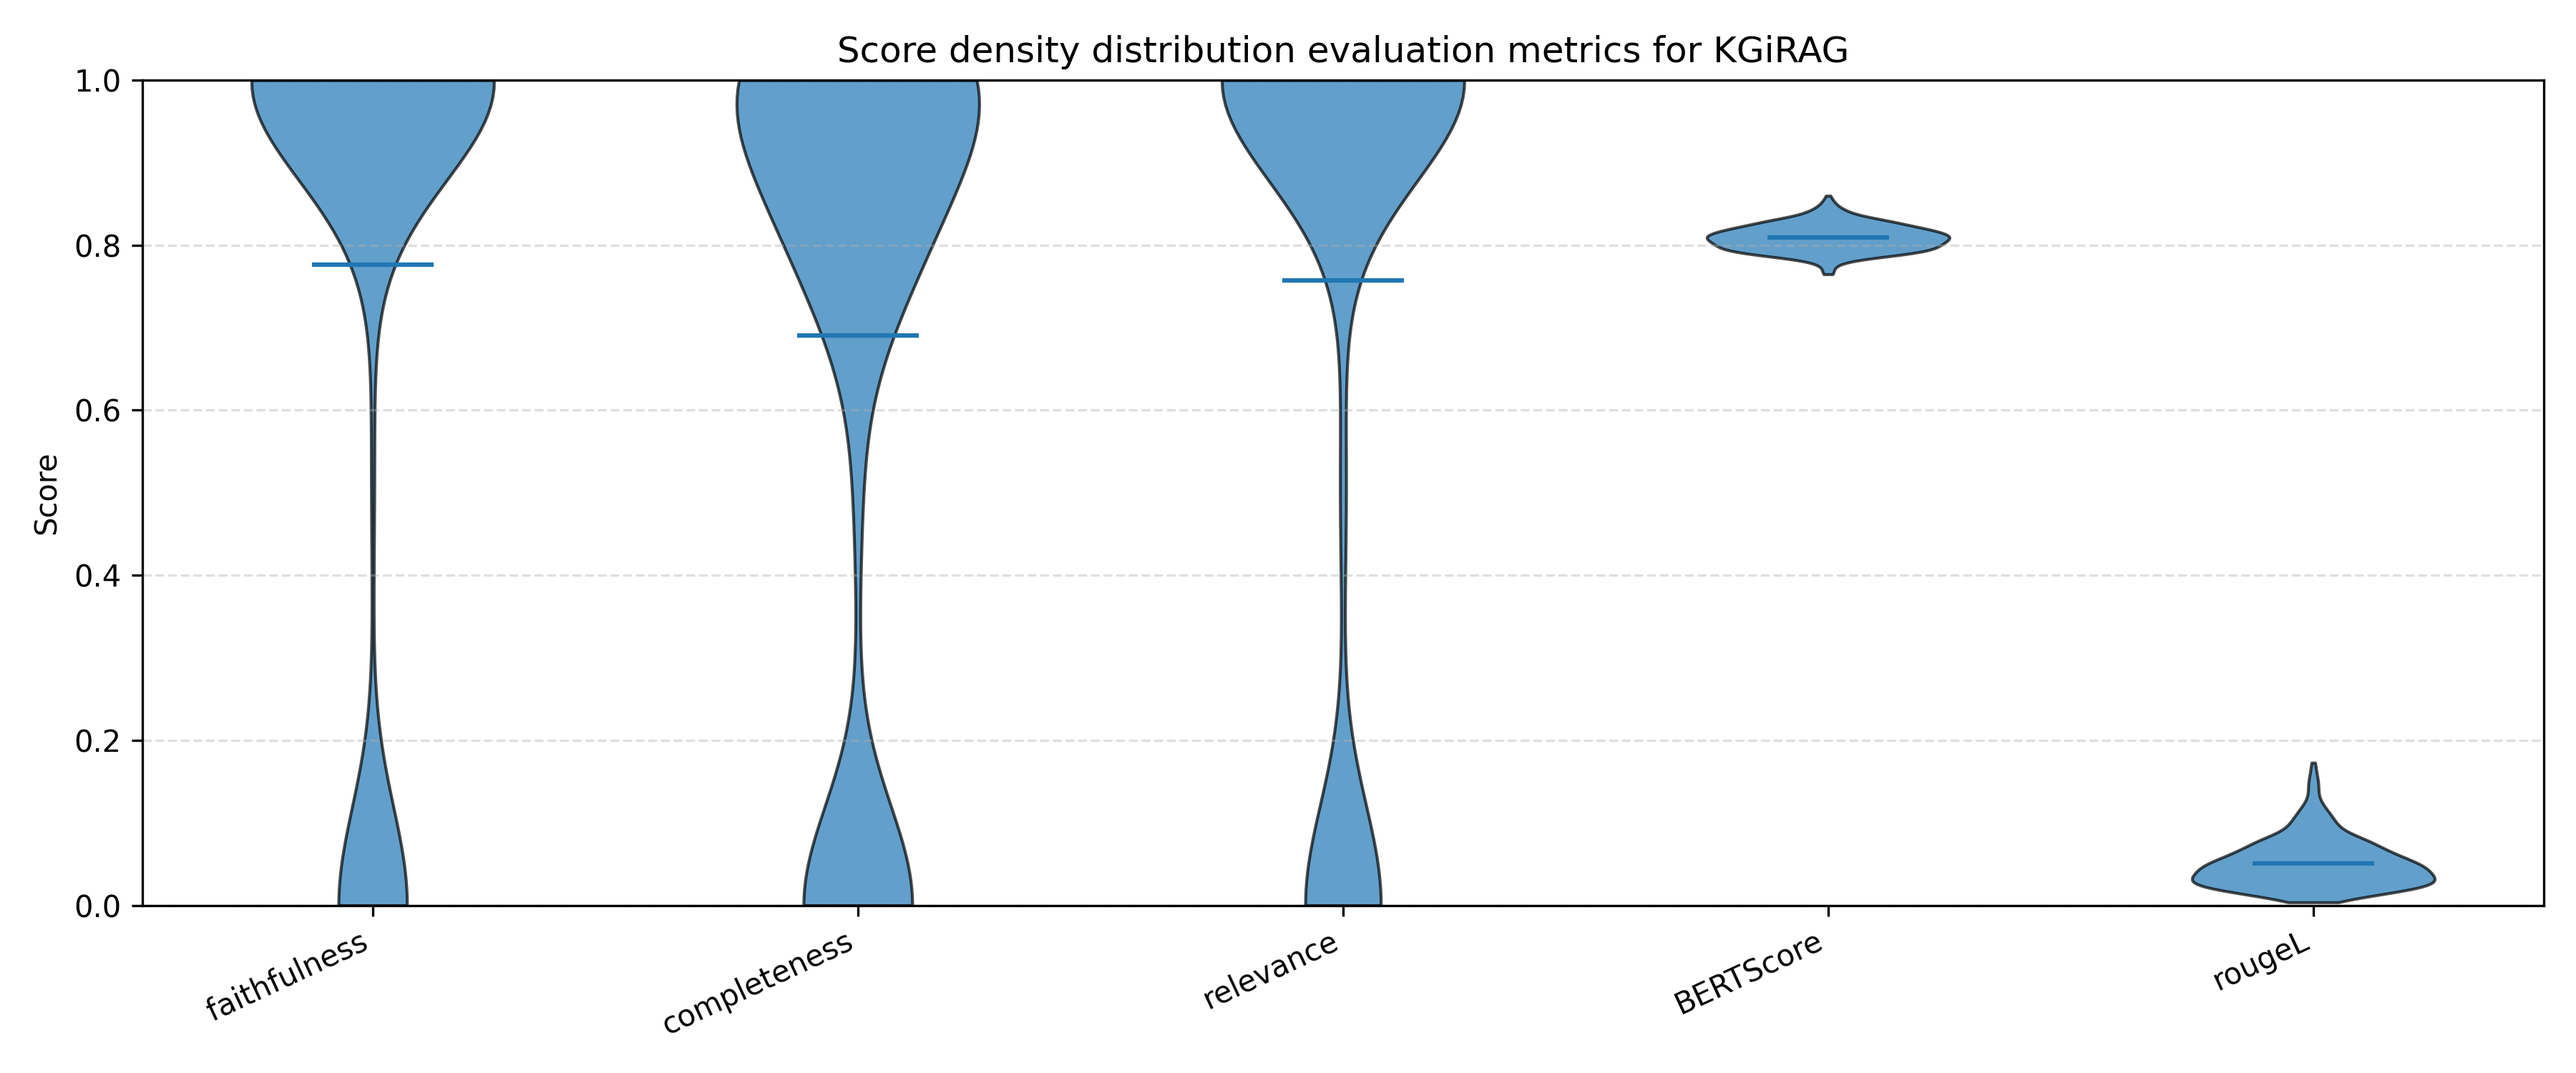
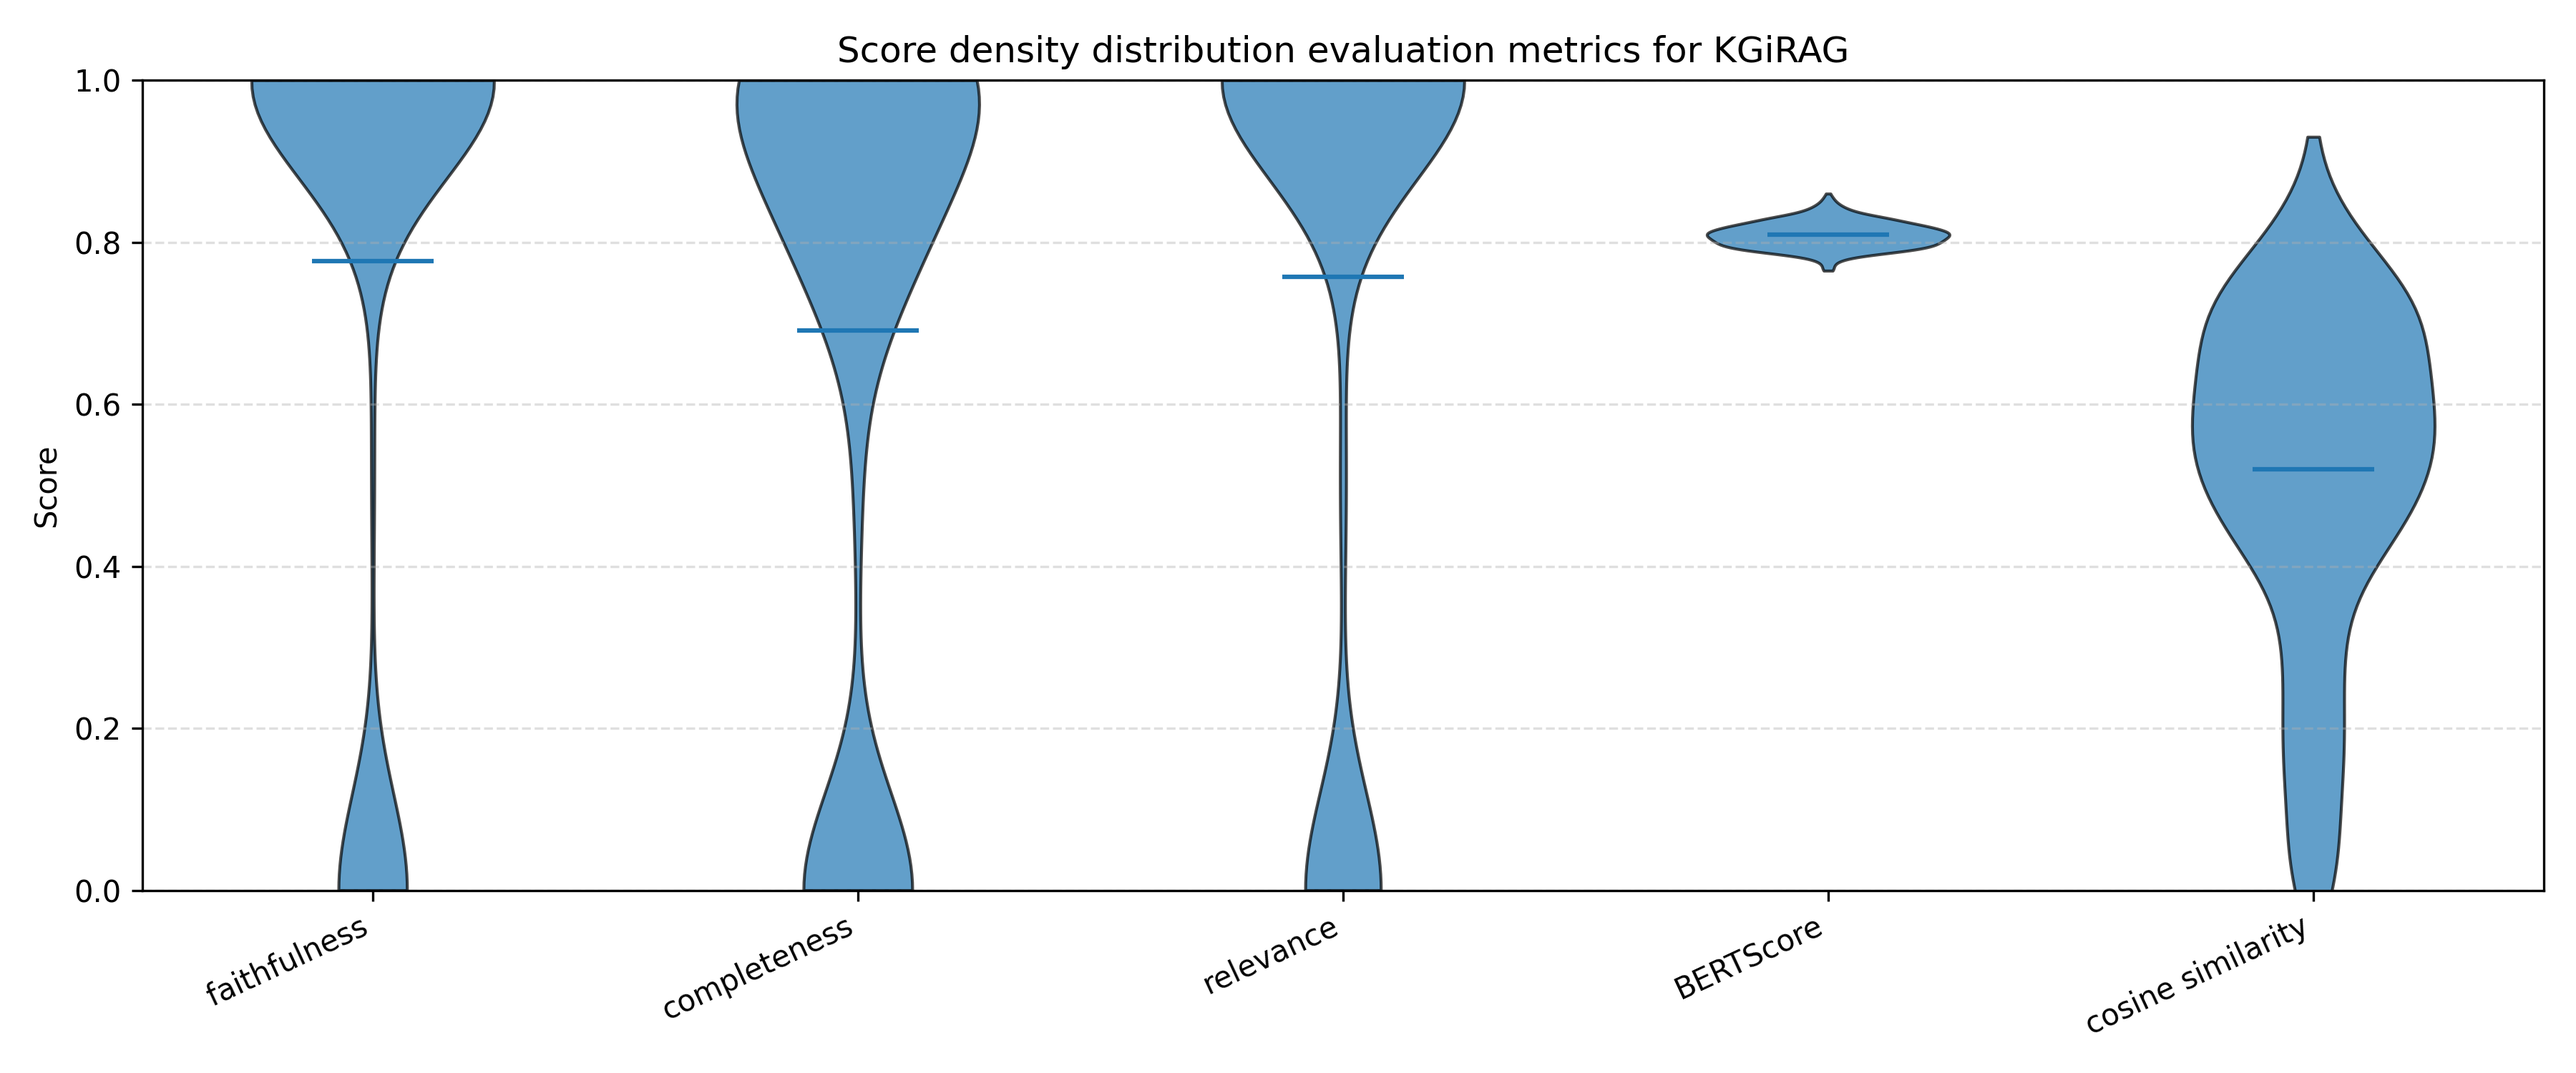
more stats

diff --git a/src/scripts_stats_camera_ready/violin_microsoft_and_rarr.py b/src/scripts_stats_camera_ready/violin_microsoft_and_rarr.py
@@ -2,8 +2,9 @@ import pandas as pd
 import numpy as np
 import matplotlib.pyplot as plt
 
-INPUT_CSV = "../experiments/results_final_1_microsoft.csv"
-OUT_PNG = "../stats_camera_ready/violin_microsoft.png"
+# INPUT_CSV = "../experiments/results_final_1_microsoft.csv"
+INPUT_CSV = "../experiments/rarr_metrics_final_review.csv"
+OUT_PNG = "../stats_camera_ready/violin_rarr.png"
 
 # Metrics to plot (match your QA CSV column names)
 METRICS = [
@@ -11,7 +12,7 @@ METRICS = [
     "completeness",
     "relevance",
     "bertscore_f1",
-    "rougeL"
+    "cosine_sim"
 ]
 
 # Display labels (optional)
@@ -20,7 +21,7 @@ LABELS = {
     "completeness": "completeness",
     "relevance": "relevance",
     "bertscore_f1": "BERTScore",
-    "rougeL": "rougeL"
+    "cosine_sim": "cosine similarity"
 }
 
 df = pd.read_csv(INPUT_CSV)
@@ -55,7 +56,8 @@ plt.xticks(
 )
 plt.ylim(0, 1)
 plt.ylabel("Score")
-plt.title("Score density distribution evaluation metrics for Edge et al.")
+# plt.title("Score density distribution evaluation metrics for Edge et al.")
+plt.title("Score density distribution evaluation metrics for Gao et al.")
 
 plt.grid(True, axis="y", alpha=0.4, linestyle="--")
 plt.tight_layout()

diff --git a/src/scripts_stats_camera_ready/violin_kgirag.py b/src/scripts_stats_camera_ready/violin_kgirag.py
@@ -2,8 +2,8 @@ import pandas as pd
 import numpy as np
 import matplotlib.pyplot as plt
 
-INPUT_CSV = "../experiments/experiment_optimized_real_final_ner_500.csv"
-OUT_PNG = "../stats_camera_ready/violin_ner.png"
+INPUT_CSV = "../experiments/experiment_optimized_real_final_no_ner_500.csv"
+OUT_PNG = "../stats_camera_ready/violin_no_ner.png"
 
 # Metrics to plot (match your QA CSV column names)
 METRICS = [
@@ -11,7 +11,7 @@ METRICS = [
     "completeness",
     "relevance",
     "bertscore_f1",
-    "rougeL"
+    "cosine_sim"
 ]
 
 # Display labels (optional)
@@ -20,7 +20,7 @@ LABELS = {
     "completeness": "completeness",
     "relevance": "relevance",
     "bertscore_f1": "BERTScore",
-    "rougeL": "rougeL"
+    "cosine_sim": "cosine similarity"
 }
 
 df = pd.read_csv(INPUT_CSV)
@@ -59,7 +59,7 @@ plt.xticks(
 )
 plt.ylim(0, 1)
 plt.ylabel("Score")
-plt.title("Score density distribution evaluation metrics for KGiRAG with NER")
+plt.title("Score density distribution evaluation metrics for KGiRAG")
 
 plt.grid(True, axis="y", alpha=0.4, linestyle="--")
 plt.tight_layout()
